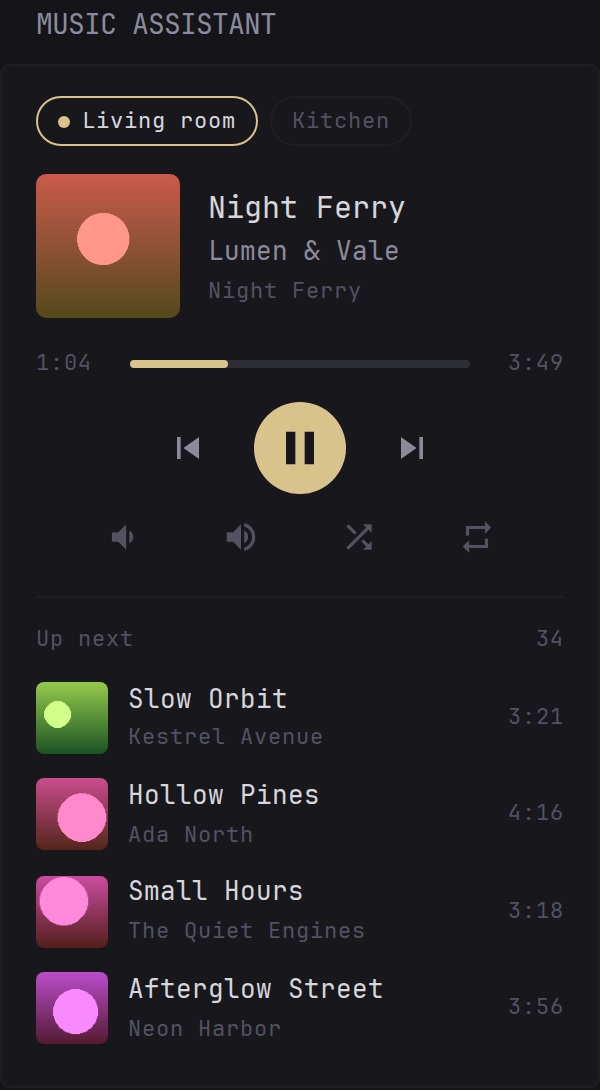
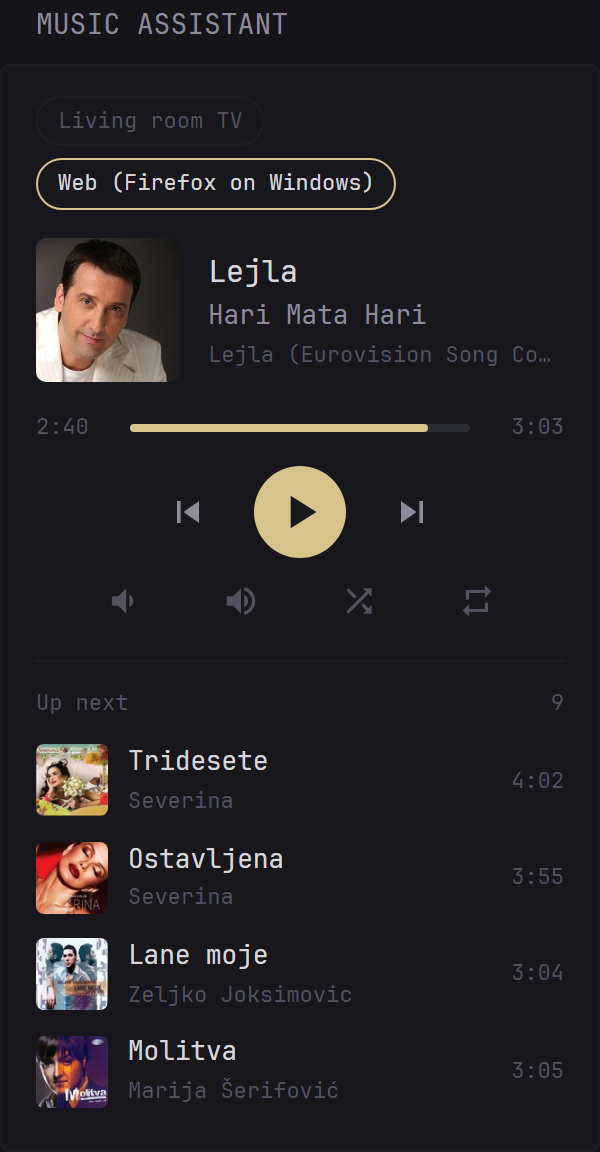
Preview images from a real Music Assistant
widget/preview*.png now show the widget against Music Assistant 2.10.5
instead of the mock. dev/screenshot.py takes them from any running Glance;
test_e2e.py --screenshots now saves the mock to dev/page*.png so it no
longer overwrites them.

diff --git a/dev/screenshot.py b/dev/screenshot.py
@@ -1,0 +1,52 @@
+#!/usr/bin/env python3
+"""Refresh widget/preview*.png from a running Glance, for example one connected to a real Music Assistant.
+
+Start Glance with the config from dev/make_config.py first. The screenshots show the default
+widget (id ma) and the big-cover widget (id ma-big) as they are at that moment, so start the
+music you want to show before running this.
+
+Requirements: pip install playwright && python -m playwright install chromium
+Run:          python3 dev/screenshot.py [URL] [--player NAME]
+              URL defaults to http://127.0.0.1:8080, --player opens that player's tab first
+"""
+
+from __future__ import annotations
+
+import argparse
+from pathlib import Path
+
+from playwright.sync_api import sync_playwright
+
+ROOT = Path(__file__).resolve().parent.parent
+TARGETS = {"ma": "preview.png", "ma-big": "preview-big-cover.png"}
+
+
+def main() -> None:
+    parser = argparse.ArgumentParser(description=__doc__.splitlines()[0])
+    parser.add_argument("url", nargs="?", default="http://127.0.0.1:8080")
+    parser.add_argument("--player", default="", help="name of the player tab to open first")
+    args = parser.parse_args()
+
+    with sync_playwright() as pw:
+        browser = pw.chromium.launch()
+        page = browser.new_page(viewport={"width": 1440, "height": 1100}, device_scale_factor=2)
+        page.goto(args.url)
+        page.wait_for_function("window.maPlayer !== undefined", timeout=10000)
+        for widget_id in TARGETS:
+            if args.player:
+                tab = page.locator(f'[data-ma-root="{widget_id}"] .tab-music-assistant', has_text=args.player)
+                if tab.count() == 0:
+                    raise SystemExit(f"no player tab matching {args.player!r} in widget {widget_id}")
+                tab.first.click()
+        page.mouse.move(0, 0)
+        page.wait_for_function("[...document.images].every(img => img.complete)", timeout=10000)
+        page.wait_for_timeout(800)  # Glance's entrance animation
+        for widget_id, name in TARGETS.items():
+            page.locator(".widget", has=page.locator(f'[data-ma-root="{widget_id}"]')).screenshot(
+                path=ROOT / "widget" / name)
+            print(f"saved widget/{name}")
+        browser.close()
+
+
+if __name__ == "__main__":
+    main()

diff --git a/dev/test_e2e.py b/dev/test_e2e.py
@@ -6,7 +6,7 @@ Chromium (Playwright) and checks rendering, every control, soft refresh,
 auto refresh at the end of a track, error reporting and the read-only variant.
 
 Requirements: glance binary on PATH (or $GLANCE_BIN), pip install aiohttp pillow playwright
-Run:          python3 dev/test_e2e.py [--screenshots]
+Run:          python3 dev/test_e2e.py [--screenshots]   (screenshots of the mock go to dev/page*.png)
 """
 
 from __future__ import annotations
@@ -206,10 +206,10 @@ def run_browser_tests(screenshots: bool) -> None:
             page.mouse.move(0, 0)
             page.wait_for_function("window.maPlayer !== undefined", timeout=5000)
             page.wait_for_timeout(800)
-            out = ROOT / "widget"
-            page.locator(".widget", has=page.locator('[data-ma-root="ma"]')).screenshot(path=out / "preview.png")
+            out = ROOT / "dev"  # widget/preview*.png come from a real Music Assistant (dev/screenshot.py)
+            page.locator(".widget", has=page.locator('[data-ma-root="ma"]')).screenshot(path=out / "page-preview.png")
             page.locator(".widget", has=page.locator('[data-ma-root="ma-big"]')).screenshot(
-                path=out / "preview-big-cover.png")
+                path=out / "page-preview-big-cover.png")
             page.screenshot(path=ROOT / "dev" / "page.png", full_page=True)
             page.set_viewport_size({"width": 390, "height": 844})
             page.wait_for_timeout(500)

diff --git a/dev/README.md b/dev/README.md
@@ -8,6 +8,7 @@ Everything here runs locally without a real Music Assistant.
 | `make_config.py` | Writes `glance.generated.yml`: a page with the default, `big-cover` and read-only variants |
 | `test_e2e.py` | Starts the mock and Glance, clicks through the widget in Chromium and checks every command |
 | `sync_readme.py` | Copies `widget/music-assistant.yml` into `widget/README.md` |
+| `screenshot.py` | Saves `widget/preview*.png` from a running Glance |
 
 ## Requirements
 
@@ -30,10 +31,19 @@ Glance reloads the config by itself.
 Point `MA_URL` and `MA_TOKEN` at your server instead of the mock. `GET <MA_URL>/api-docs` lists every
 command of your Music Assistant version.
 
+## Preview images
+
+`widget/preview*.png` show a real Music Assistant. With Glance running against it as above, start
+some music and run:
+
+```bash
+python3 dev/screenshot.py                 # or: dev/screenshot.py http://host:8080 --player "Kitchen"
+```
+
 ## Tests
 
 ```bash
-python3 dev/test_e2e.py                   # add --screenshots to refresh widget/preview*.png
+python3 dev/test_e2e.py                   # add --screenshots to save the mock to dev/page*.png
 python3 dev/sync_readme.py --check
 ```
 
